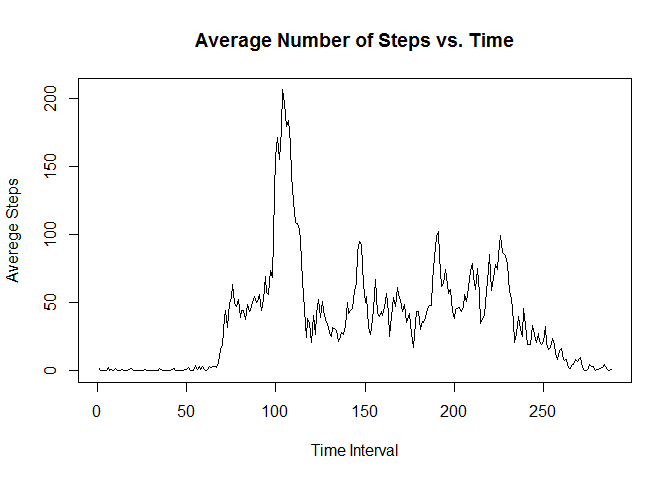
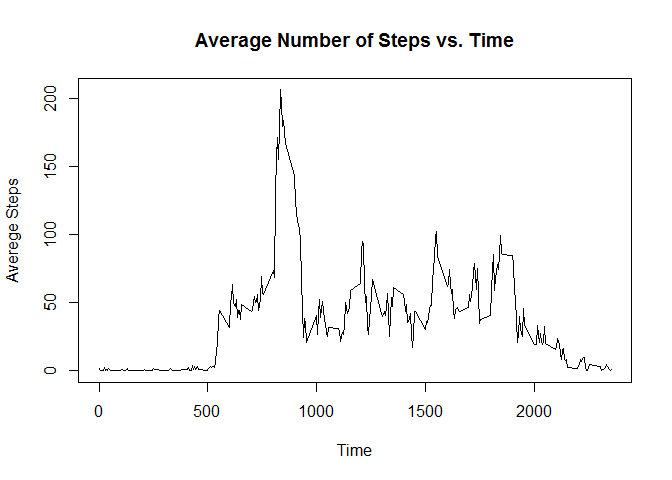
2cnd commit for project 1

diff --git a/PA1_template.html b/PA1_template.html
@@ -69,7 +69,7 @@ require(dplyr)</code></pre>
 <div id="loading-and-preprocessing-the-data" class="section level2">
 <h2>Loading and preprocessing the data</h2>
 <p>The data that is used in this analysis is contained in the data set “activity.csv”</p>
-<p>This analysis makes use of data from a personal activity monitoring device. This device collects data at 5 minute intervals through out the day. The data consists of two months of data from an anonymous individual collected during the months of October and November, 2012 and include the number of steps taken in 5 minute intervals each day.</p>
+<p>This analysis makes use of data from a personal activity monitoring device. This device collects data at 5 minute intervals through out the day. The data consists of two months of data from an anonymous individual (John Doe) collected during the months of October and November, 2012 and include the number of steps taken in 5 minute intervals each day.</p>
 <p>The original data set contains 17568 observations of 3 variables.</p>
 <ul>
 <li>steps: Number of steps taking in a 5-minute interval (missing values are coded as NA)</li>
@@ -119,6 +119,11 @@ day_tot$correction &lt;- &quot;raw data&quot;
 gp &lt;- ggplot(day_tot, aes(x = total))
 gp + geom_histogram(binwidth = 1000, fill = &quot;pink&quot;, color =&quot; black&quot;) + ggtitle(&quot;Total Steps&quot;) +  labs(x=&quot;Number of Steps&quot;) </code></pre>
[1 lines of base64/hex data omitted]
+<pre class="r"><code># calculate The mean and median number of steps taken per day 
+
+mn &lt;- mean(mmt$total)
+mn&lt;- format(mn, digits = 4, nsmall=1)
+md &lt;-median(mmt$total)</code></pre>
 </div>
 <div id="the-mean-number-of-steps-is-10766.2" class="section level4">
 <h4>The mean number of steps is 10766.2</h4>
@@ -131,10 +136,14 @@ gp + geom_histogram(binwidth = 1000, fill = &quot;pink&quot;, color =&quot; blac
 <h2>What is the average daily activity pattern?</h2>
 <div id="the-plot-below-displays-the-average-number-of-steps-taken-at-each-5-minute-time-interval." class="section level4">
 <h4>The plot below displays the average number of steps taken at each 5 minute time interval.</h4>
[1 lines of base64/hex data omitted]
+<pre class="r"><code># group data by time interval and calculate mean of each interval
+
+int_dat &lt;- group_by(act_dat2, interval) %&gt;% summarize(mean = mean(steps))
+plot(int_dat, type=&quot;l&quot;, main = &quot;Average Number of Steps vs. Time&quot;, xlab=&quot;Time&quot;, ylab=&quot;Averege Steps&quot;)</code></pre>
[1 lines of base64/hex data omitted]
 </div>
-<div id="the-time-interval-containing-the-maximum-average-number-of-steps-is-104" class="section level4">
-<h4>The time interval containing the maximum average number of steps is 104</h4>
+<div id="the-time-interval-containing-the-maximum-average-number-of-steps-is-835" class="section level4">
+<h4>The time interval containing the maximum average number of steps is 835</h4>
 </div>
 </div>
 <div id="imputing-missing-values" class="section level2">
@@ -186,43 +195,10 @@ dat_imp$days &lt;- weekdays(as.Date(dat_imp$date, format = &quot;%Y-%m-%d&quot;)
 # re-order days of week
 dat_imp$days &lt;- factor(dat_imp$days, levels= c(&quot;Sunday&quot;, &quot;Monday&quot;, &quot;Tuesday&quot;, &quot;Wednesday&quot;, &quot;Thursday&quot;, &quot;Friday&quot;, &quot;Saturday&quot;))
 
-dat_imp &lt;- dat_imp[order(dat_imp$days),  ]
-head(dat_imp)</code></pre>
-<pre><code>##      steps       date interval   days
-## 1729     0 2012-10-07        0 Sunday
-## 1730     0 2012-10-07        5 Sunday
-## 1731     0 2012-10-07       10 Sunday
-## 1732     0 2012-10-07       15 Sunday
-## 1733     0 2012-10-07       20 Sunday
-## 1734     0 2012-10-07       25 Sunday</code></pre>
+dat_imp &lt;- dat_imp[order(dat_imp$days),  ]</code></pre>
 <pre class="r"><code># calculate mean, median, and total # of steps taken per day for imputed data
 
-mmt_imp &lt;- group_by(dat_imp, date) %&gt;% summarize(mean = mean(steps), median = median(steps), total = sum(steps))
-head(mmt_imp, n=20)</code></pre>
-<pre><code>## Source: local data frame [20 x 4]
-## 
-##          date     mean   median     total
-##        (fctr)    (dbl)    (dbl)     (dbl)
-## 1  2012-10-01 34.63492 34.63492  9974.857
-## 2  2012-10-02  0.43750  0.00000   126.000
-## 3  2012-10-03 39.41667  0.00000 11352.000
-## 4  2012-10-04 42.06944  0.00000 12116.000
-## 5  2012-10-05 46.15972  0.00000 13294.000
-## 6  2012-10-06 53.54167  0.00000 15420.000
-## 7  2012-10-07 38.24653  0.00000 11015.000
-## 8  2012-10-08 34.63492 34.63492  9974.857
-## 9  2012-10-09 44.48264  0.00000 12811.000
-## 10 2012-10-10 34.37500  0.00000  9900.000
-## 11 2012-10-11 35.77778  0.00000 10304.000
-## 12 2012-10-12 60.35417  0.00000 17382.000
-## 13 2012-10-13 43.14583  0.00000 12426.000
-## 14 2012-10-14 52.42361  0.00000 15098.000
-## 15 2012-10-15 35.20486  0.00000 10139.000
-## 16 2012-10-16 52.37500  0.00000 15084.000
-## 17 2012-10-17 46.70833  0.00000 13452.000
-## 18 2012-10-18 34.91667  0.00000 10056.000
-## 19 2012-10-19 41.07292  0.00000 11829.000
-## 20 2012-10-20 36.09375  0.00000 10395.000</code></pre>
+mmt_imp &lt;- group_by(dat_imp, date) %&gt;% summarize(mean = mean(steps), median = median(steps), total = sum(steps))</code></pre>
 </div>
 <div id="the-histogram-below-displays-the-number-of-steps-each-day-for-the-imputed-data-set" class="section level4">
 <h4>The histogram below displays the number of steps each day for the IMPUTED data set</h4>
@@ -308,7 +284,7 @@ wkdy &lt;- function(data = dat_imp){
 gp &lt;- ggplot(dat_imp_int, aes(x = interval, y = mean, color = wkdy))
  gp + geom_line() + facet_grid(wkdy ~ .)  + ggtitle(&quot;Average Number of Steps vs. Time&quot;)</code></pre>
[1 lines of base64/hex data omitted]
-<p>The above plots show that the weekdays have a strong peak in the number of steps earlier in the day on weekdays, with significantly lower activity elsewhere. On weekends, however, the number of steps is much more consistent over the active period(s) of the day. It looks like John DOe sleeps in a little on weekesnds, as well. :)</p>
+<p>The above plots show that the weekdays have a strong peak in the number of steps earlier in the day on weekdays, with significantly lower activity elsewhere. On weekends, however, the number of steps is much more consistent over the active period(s) of the day. It looks like John Doe sleeps in a little on weekends, as well. :)</p>
 </div>
 
 

diff --git a/PA1_template.md b/PA1_template.md
@@ -10,7 +10,7 @@ require(dplyr)
 
 The data that is used in this analysis is contained in the data set "activity.csv"
 
-This analysis makes use of data from a personal activity monitoring device. This device collects data at 5 minute intervals through out the day. The data consists of two months of data from an anonymous individual collected during the months of October and November, 2012 and include the number of steps taken in 5 minute intervals each day.
+This analysis makes use of data from a personal activity monitoring device. This device collects data at 5 minute intervals through out the day. The data consists of two months of data from an anonymous individual (John Doe) collected during the months of October and November, 2012 and include the number of steps taken in 5 minute intervals each day.
 
 The original data set contains 17568 observations of 3 variables.
 
@@ -83,6 +83,13 @@ gp + geom_histogram(binwidth = 1000, fill = "pink", color =" black") + ggtitle("
 
 
 
+```r
+# calculate The mean and median number of steps taken per day 
+
+mn <- mean(mmt$total)
+mn<- format(mn, digits = 4, nsmall=1)
+md <-median(mmt$total)
+```
 
 ####The mean number of steps is 10766.2
 ####The median number of steps is 10765
@@ -91,12 +98,20 @@ gp + geom_histogram(binwidth = 1000, fill = "pink", color =" black") + ggtitle("
 ## What is the average daily activity pattern?
 
 ####The plot below displays the average number of steps taken at each 5 minute time interval.
+
+```r
+# group data by time interval and calculate mean of each interval
+
+int_dat <- group_by(act_dat2, interval) %>% summarize(mean = mean(steps))
+plot(int_dat, type="l", main = "Average Number of Steps vs. Time", xlab="Time", ylab="Averege Steps")
+```
+
 ![](PA1_template_files/figure-html/unnamed-chunk-6-1.png) 
 
 
 
 
-####The  time interval containing the maximum average number of steps is 104
+####The  time interval containing the maximum average number of steps is 835
 
 ## Imputing missing values
 
@@ -160,17 +175,6 @@ dat_imp$days <- weekdays(as.Date(dat_imp$date, format = "%Y-%m-%d"))
 dat_imp$days <- factor(dat_imp$days, levels= c("Sunday", "Monday", "Tuesday", "Wednesday", "Thursday", "Friday", "Saturday"))
 
 dat_imp <- dat_imp[order(dat_imp$days),  ]
-head(dat_imp)
-```
-
-```
-##      steps       date interval   days
-## 1729     0 2012-10-07        0 Sunday
-## 1730     0 2012-10-07        5 Sunday
-## 1731     0 2012-10-07       10 Sunday
-## 1732     0 2012-10-07       15 Sunday
-## 1733     0 2012-10-07       20 Sunday
-## 1734     0 2012-10-07       25 Sunday
 ```
 
 
@@ -178,34 +182,6 @@ head(dat_imp)
 # calculate mean, median, and total # of steps taken per day for imputed data
 
 mmt_imp <- group_by(dat_imp, date) %>% summarize(mean = mean(steps), median = median(steps), total = sum(steps))
-head(mmt_imp, n=20)
-```
-
-```
-## Source: local data frame [20 x 4]
-## 
-##          date     mean   median     total
-##        (fctr)    (dbl)    (dbl)     (dbl)
-## 1  2012-10-01 34.63492 34.63492  9974.857
-## 2  2012-10-02  0.43750  0.00000   126.000
-## 3  2012-10-03 39.41667  0.00000 11352.000
-## 4  2012-10-04 42.06944  0.00000 12116.000
-## 5  2012-10-05 46.15972  0.00000 13294.000
-## 6  2012-10-06 53.54167  0.00000 15420.000
-## 7  2012-10-07 38.24653  0.00000 11015.000
-## 8  2012-10-08 34.63492 34.63492  9974.857
-## 9  2012-10-09 44.48264  0.00000 12811.000
-## 10 2012-10-10 34.37500  0.00000  9900.000
-## 11 2012-10-11 35.77778  0.00000 10304.000
-## 12 2012-10-12 60.35417  0.00000 17382.000
-## 13 2012-10-13 43.14583  0.00000 12426.000
-## 14 2012-10-14 52.42361  0.00000 15098.000
-## 15 2012-10-15 35.20486  0.00000 10139.000
-## 16 2012-10-16 52.37500  0.00000 15084.000
-## 17 2012-10-17 46.70833  0.00000 13452.000
-## 18 2012-10-18 34.91667  0.00000 10056.000
-## 19 2012-10-19 41.07292  0.00000 11829.000
-## 20 2012-10-20 36.09375  0.00000 10395.000
 ```
 #### The histogram below displays the number of steps each day for the IMPUTED data set
 
@@ -299,4 +275,4 @@ gp <- ggplot(dat_imp_int, aes(x = interval, y = mean, color = wkdy))
 ![](PA1_template_files/figure-html/unnamed-chunk-15-1.png) 
 
 
-The above plots show that the weekdays have a strong peak in the number of steps earlier in the day on weekdays, with significantly lower activity elsewhere.  On weekends, however,  the number of steps is much more consistent over the active period(s) of the day.  It looks like John DOe sleeps in a little on weekesnds, as well. :)
+The above plots show that the weekdays have a strong peak in the number of steps earlier in the day on weekdays, with significantly lower activity elsewhere.  On weekends, however,  the number of steps is much more consistent over the active period(s) of the day.  It looks like John Doe sleeps in a little on weekends, as well. :)
